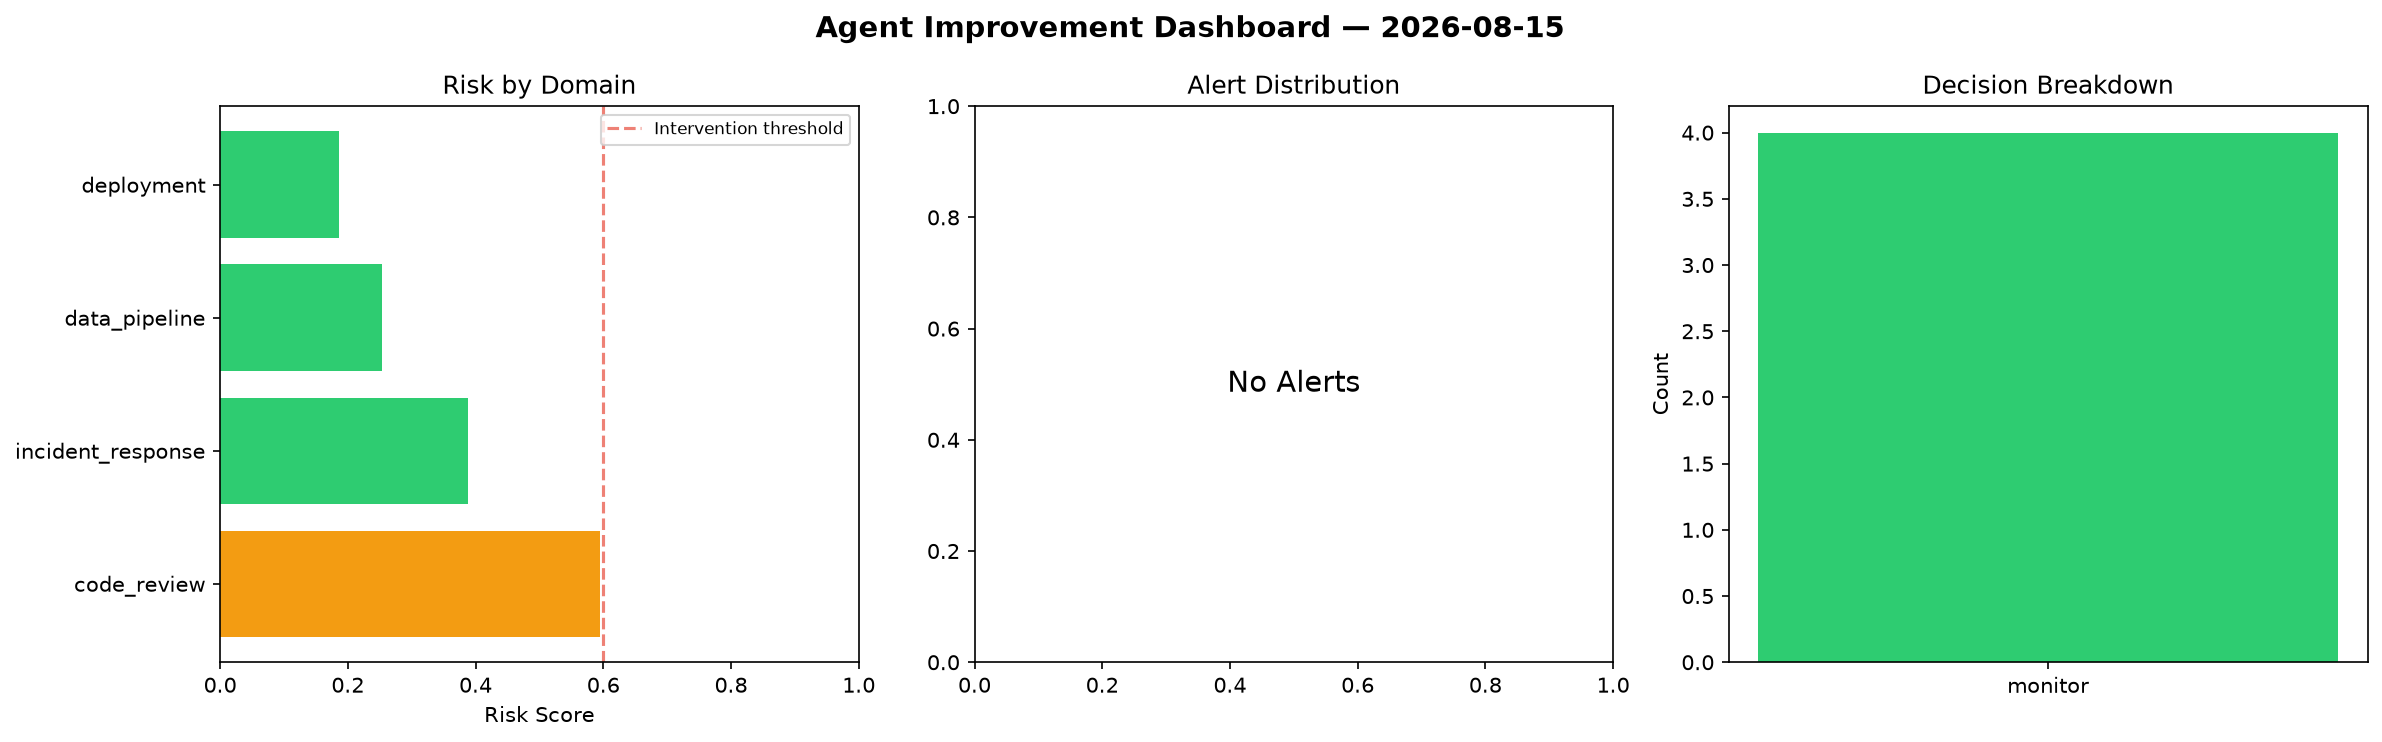
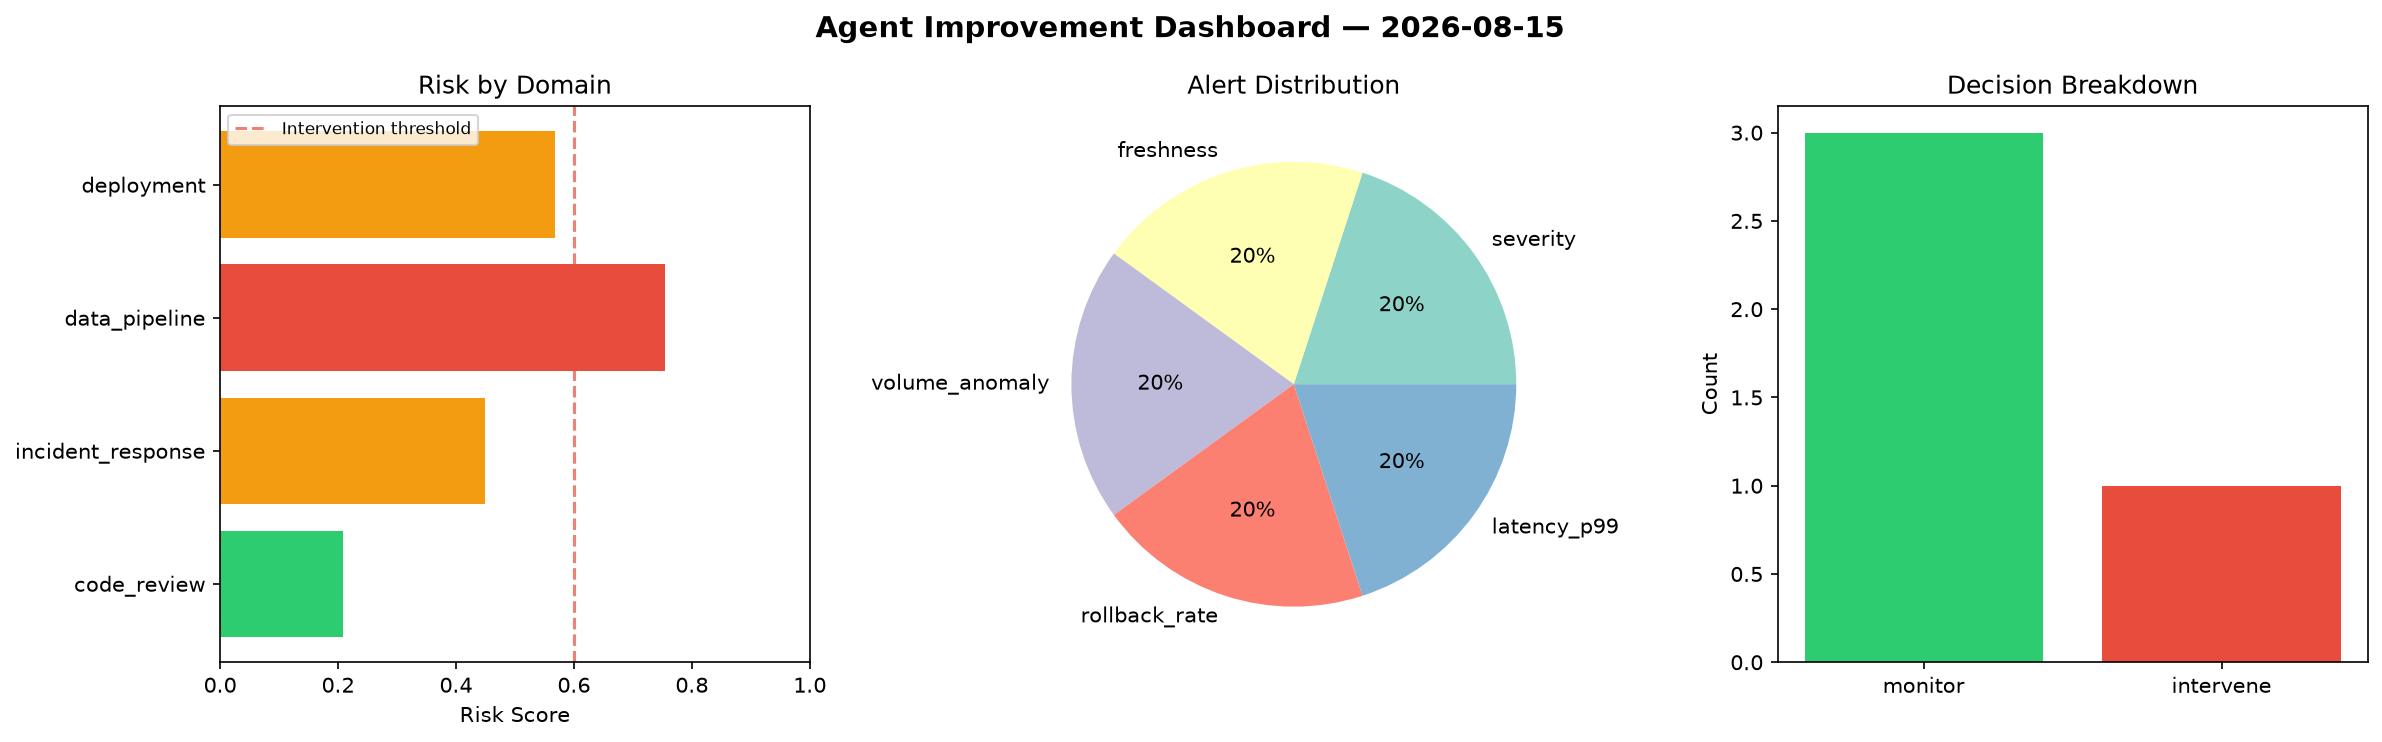
agent-improvement: daily cycle 2026-08-15T14:39

diff --git a/logs/2026-08-15.md b/logs/2026-08-15.md
@@ -1,6 +1,6 @@
 # Agent Improvement Report — 2026-08-15
 
-**Cycle ID:** `c65f0f7b` | **Avg Risk:** 0.3554 | **Interventions:** 0/4
+**Cycle ID:** `d378968c` | **Avg Risk:** 0.4949 | **Interventions:** 1/4
 
 ![Dashboard](2026-08-15_dashboard.png)
 
@@ -10,18 +10,18 @@
 
 | Domain | Risk Score | Decision | Alerts |
 |--------|-----------|----------|--------|
-| code_review | 0.5949 | monitor | none |
-| incident_response | 0.3874 | monitor | none |
-| data_pipeline | 0.2538 | monitor | none |
-| deployment | 0.1855 | monitor | none |
+| code_review | 0.2076 | monitor | none |
+| incident_response | 0.4499 | monitor | severity |
+| data_pipeline | 0.7536 | intervene | freshness, volume_anomaly |
+| deployment | 0.5684 | monitor | rollback_rate, latency_p99 |
 
 ## Delta vs Yesterday
 
 | Domain | Today | Yesterday | Change |
 |--------|-------|-----------|--------|
-| code_review | 0.5949 | 0.5349 | 📈 11.2% |
-| incident_response | 0.3874 | 0.4129 | 📉 -6.2% |
-| data_pipeline | 0.2538 | 0.7275 | 📉 -65.1% |
-| deployment | 0.1855 | 0.8527 | 📉 -78.2% |
+| code_review | 0.2076 | 0.5349 | 📉 -61.2% |
+| incident_response | 0.4499 | 0.4129 | 📈 9.0% |
+| data_pipeline | 0.7536 | 0.7275 | 📈 3.6% |
+| deployment | 0.5684 | 0.8527 | 📉 -33.3% |
 
-**Refinement:** `{'adjustment': 'maintain', 'trend': 'improving', 'window': 4}`
+**Refinement:** `{'adjustment': 'tighten_thresholds', 'trend': 'degrading', 'window': 4}`
